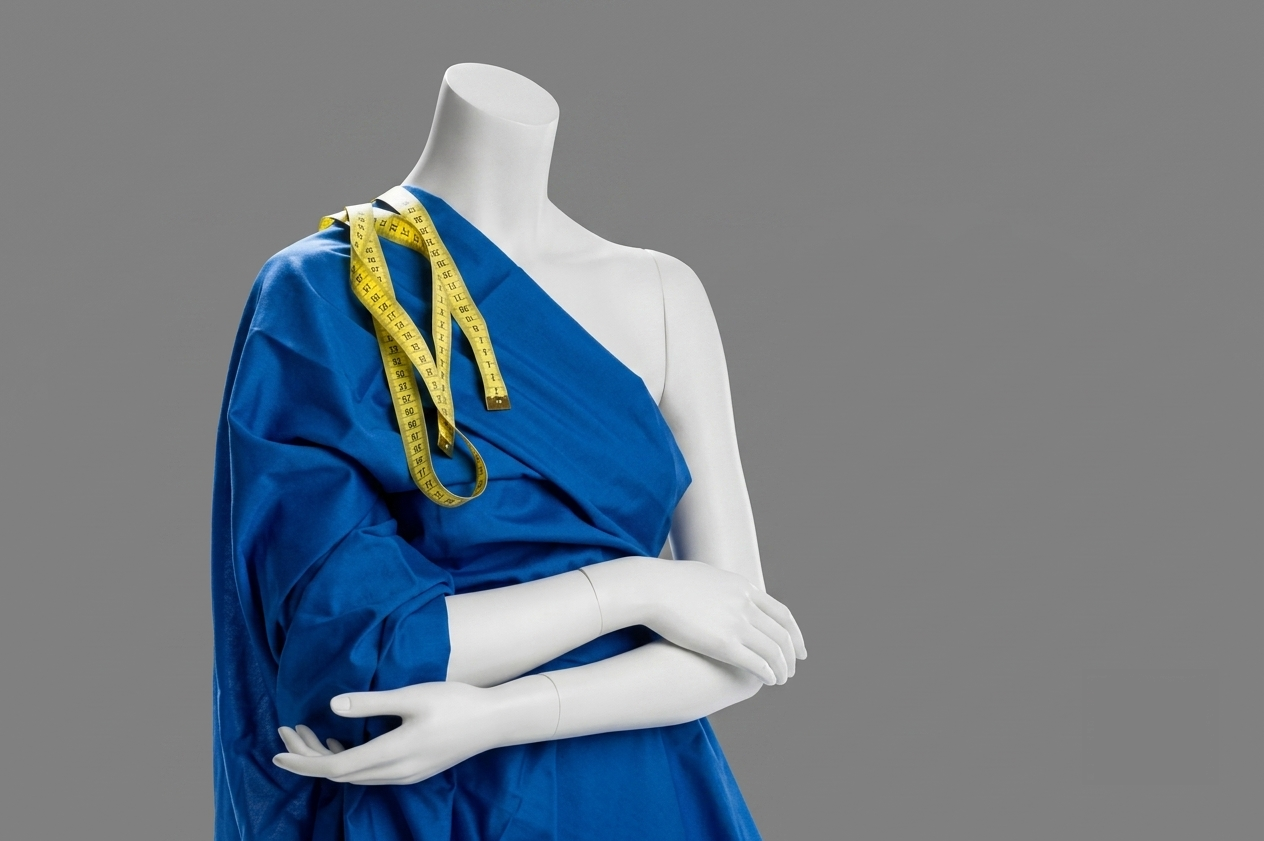
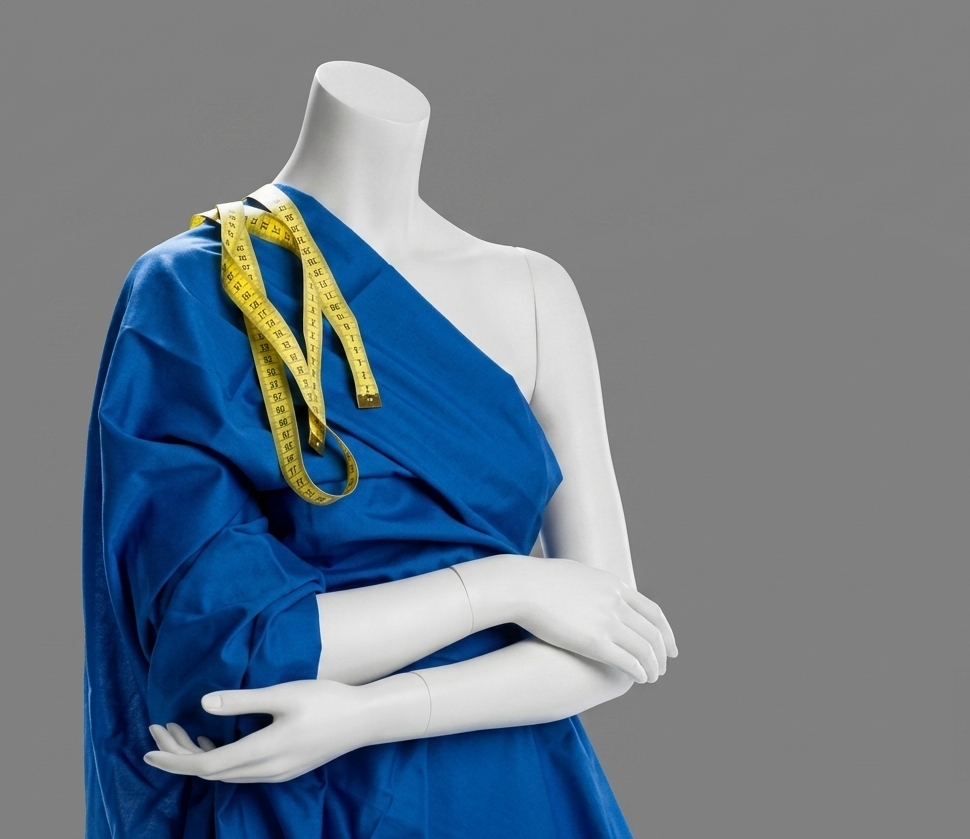
rral

Changed region(s): [[0.0619, 0.062, 0.7113, 1.0]]

diff --git a/index.css b/index.css
@@ -318,7 +318,7 @@ header.top {
 }
 #section3 {
      background-color: #2e7d32; 
-    }
+}
 /* ---------- Section 4: Requirements ---------- */
 #section4 {
     background-color: #0F172A;
@@ -331,34 +331,57 @@ header.top {
 }
 #section4 img.man {
     max-width: 500px;
-    height: auto;
-    display: block;
-    margin: 0 auto 20px auto;
+    height: 450px;
+    display: flex;
+    margin: 80px auto 20px auto;
     grid-column: 2;
     grid-row: 1;
+    border: 1px solid rgb(43, 56, 72);
+    border-radius: 20px;
 }
 .entry{
     text-align: left;
 }
 .entry h1{
-    font-size: 2.5rem;
+    font-size: 3rem;
     font-family: "Sanchez", sans-serif;
     font-weight: lighter;
     line-height: 1;
     text-align: left;
+    max-height: 500px;
 }
 .entry h1 span{
     color: #dc2626;
 }
 .entry i{
-    margin-right: 8px;
-    border: 1vw  solid #dc2626;
+    width:45px;
+    height:45px;
+    margin:20px 10px 8px 0;
+    display: inline-flex;
+    justify-content: center;
+    align-items: center;
+    border: 20px solid #dc2626;
     border-radius: 20%;
+    flex-shrink: 0;
 }
 .entry p{
-    font-size: 0.9rem;
+    font-size: 1.1rem;
     line-height: 1.5;
     color: #cbd5e1;
+    margin: 0;
+}
+.all{
+    display: flex;
+    gap: 20px;
+    flex-direction: column;
+}
+.ico{
+    display: flex;
+    align-items: flex-start;
+}
+.entry h3{
+    margin: 10px 0 4px 0;
+    font-size: 1.5rem;
 }
 /* ---------- SECTION 5: Fees & Funding ---------- */
 #section5 {
@@ -960,7 +983,6 @@ footer {
     .card p {
         font-size: 0.52rem;
     }
-}
 /* ---------- start---------- */
 .main2{
     max-width: 100%;
@@ -975,4 +997,17 @@ footer {
 }
 .start p, h1{
     font-size: smaller;
+}
+/**---------- Footer Rows ---------- */
+footer {
+    grid-template-columns: 1fr 1fr 1fr;
+    text-align: center;
+}
+.about p, .contact p, .quick a{
+    font-size: 0.495rem;
+}
+
+
+
+
 }

diff --git a/index.html b/index.html
@@ -87,19 +87,30 @@
     <div id="section3"><h1>EVENTS Section</h1></div>
     <div id="section4">
         <img src="doxa/entry.png" class="man" alt="mannequin">
-        <div class="entry"><h1>Entry <br><span>Requirements</span></h1>
+        <div class="entry"><h1>Entry <br><span>Requirements.</span></h1>
         <p>We look for passion, dedication, and a willingness to learn.<br>
         Doxa is intensive, and we want students who are ready to push
         their creative boundaries.</p>
-        <h3><i class="fa-solid fa-palette" style="color: rgb(255, 255, 255);"></i>interest</h3>
+            <div class="all">
+        <div class="ico">
+            <i class="fa-solid fa-palette" style="color: rgb(255, 255, 255);"></i>
+            <div class="req-text"><h3>Interest</h3>
         <p>Applicants must demonstrate a strong passion for fashion 
-and be willing to learn industry trends.</p>
-        <h3><i class="fa-solid fa-clipboard-list" style="color: rgb(255, 255, 255);"></i>Physical Attendance</h3>
+and be willing to learn industry trends.</p></div></div>
+        
+        <div class="ico">
+            <i class="fa-solid fa-clipboard-list" style="color: rgb(255, 255, 255);"></i>
+        <div class="req-text"> 
+        <h3>Physical Attendance</h3>
         <p>Strict 90% attendance policy. As a physical academy, in-person
-participation in workshops is mandatory.</p>
-        <h3><i class="fa-solid fa-book-open" style="color: rgb(255, 255, 255);"></i>Conformity</h3>
+participation in workshops is mandatory.</p></div></div>
+
+        <div class="ico" >
+        <i class="fa-solid fa-book-open" style="color: rgb(255, 255, 255);"></i>
+        <div class="req-text"><h3>Conformity</h3>
         <p>Applicants must adhere to the academy's rules to maintain 
-a cohesive learning environment .</p>
+a cohesive learning environment .</p></div></div>
+        </div>
         </div>
     </div>
 